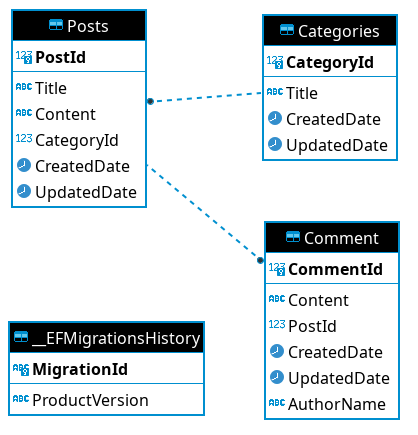
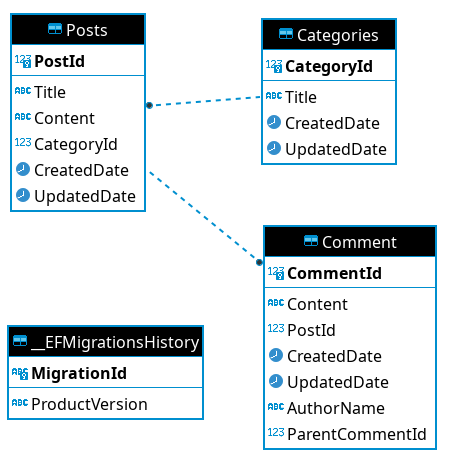
Added ParentCommentId to comment

diff --git a/sp2000.Infrastructure/sp2000.InfrastructurePersistenceMigrations/20220411155759_AddingParentCommentIdToComments.cs b/sp2000.Infrastructure/sp2000.InfrastructurePersistenceMigrations/20220411155759_AddingParentCommentIdToComments.cs
@@ -1,0 +1,45 @@
+using Microsoft.EntityFrameworkCore.Migrations;
+
+#nullable disable
+
+namespace sp2000.Infrastructure.sp2000.InfrastructurePersistenceMigrations
+{
+    public partial class AddingParentCommentIdToComments : Migration
+    {
+        protected override void Up(MigrationBuilder migrationBuilder)
+        {
+            migrationBuilder.AlterColumn<string>(
+                name: "Content",
+                table: "Comment",
+                type: "character varying(10000)",
+                maxLength: 10000,
+                nullable: false,
+                oldClrType: typeof(string),
+                oldType: "character varying(4096)",
+                oldMaxLength: 4096);
+
+            migrationBuilder.AddColumn<int>(
+                name: "ParentCommentId",
+                table: "Comment",
+                type: "integer",
+                nullable: true);
+        }
+
+        protected override void Down(MigrationBuilder migrationBuilder)
+        {
+            migrationBuilder.DropColumn(
+                name: "ParentCommentId",
+                table: "Comment");
+
+            migrationBuilder.AlterColumn<string>(
+                name: "Content",
+                table: "Comment",
+                type: "character varying(4096)",
+                maxLength: 4096,
+                nullable: false,
+                oldClrType: typeof(string),
+                oldType: "character varying(10000)",
+                oldMaxLength: 10000);
+        }
+    }
+}

diff --git a/sp2000.Infrastructure/sp2000.InfrastructurePersistenceMigrations/20220411155759_AddingParentCommentIdToComments.Designer.cs b/sp2000.Infrastructure/sp2000.InfrastructurePersistenceMigrations/20220411155759_AddingParentCommentIdToComments.Designer.cs
@@ -3,17 +3,19 @@ using System;
 using Infrastructure;
 using Microsoft.EntityFrameworkCore;
 using Microsoft.EntityFrameworkCore.Infrastructure;
+using Microsoft.EntityFrameworkCore.Migrations;
 using Microsoft.EntityFrameworkCore.Storage.ValueConversion;
 using Npgsql.EntityFrameworkCore.PostgreSQL.Metadata;
 
 #nullable disable
 
-namespace Infrastructure.Migrations
+namespace sp2000.Infrastructure.sp2000.InfrastructurePersistenceMigrations
 {
     [DbContext(typeof(ApplicationDbContext))]
-    partial class ApplicationDbContextModelSnapshot : ModelSnapshot
+    [Migration("20220411155759_AddingParentCommentIdToComments")]
+    partial class AddingParentCommentIdToComments
     {
-        protected override void BuildModel(ModelBuilder modelBuilder)
+        protected override void BuildTargetModel(ModelBuilder modelBuilder)
         {
 #pragma warning disable 612, 618
             modelBuilder

diff --git a/sp2000.Infrastructure/Persistance/Configurations/CommentConfiguration.cs b/sp2000.Infrastructure/Persistance/Configurations/CommentConfiguration.cs
@@ -10,18 +10,22 @@ namespace sp2000.Infrastructure.Persistance.Configurations
         {
 
             builder
-                .Property(p => p.PostId)
+                .Property(c => c.PostId)
                 .IsRequired();
 
             builder
-                .Property(p => p.AuthorName)
+                .Property(c => c.AuthorName)
                 .HasMaxLength(30)
                 .IsRequired();
 
             builder
-                .Property(p => p.Content)
-                .HasMaxLength(4096)
+                .Property(c => c.Content)
+                .HasMaxLength(10000) // @Note(Avic): Reddit uses 10k
                 .IsRequired();
+
+            builder
+                .Property(c => c.ParentCommentId)
+                .IsRequired(false); // @Note(Avic): A comment without ParentCommentId belongs to the root of the Post
         }
     }
 }

diff --git a/sp2000.Application/DTO/CommentDto.cs b/sp2000.Application/DTO/CommentDto.cs
@@ -8,4 +8,5 @@ public class CommentDto : BaseEntity
     public string AuthorName { get; set; } = null!;
     public string Content { get; set; } = null!;
     public int PostId { get; set; }
+    public int? ParentCommentId { get; set; }
 }

diff --git a/sp2000.Application/DTO/CreateCommentDto.cs b/sp2000.Application/DTO/CreateCommentDto.cs
@@ -5,4 +5,5 @@ public class CreateCommentDto
     public string AuthorName { get; set; } = null!;
     public string Content { get; set; } = null!;
     public int PostId { get; set; }
+    public int? ParentCommentId { get; set; }
 }

diff --git a/sp2000.Application/Models/Comment.cs b/sp2000.Application/Models/Comment.cs
@@ -10,4 +10,6 @@ public class Comment : BaseEntity
     // @Note(Avic): EFCore convention
     // Navigation property
     public int PostId { get; set; }
+
+    public int? ParentCommentId { get; set; }
 }
